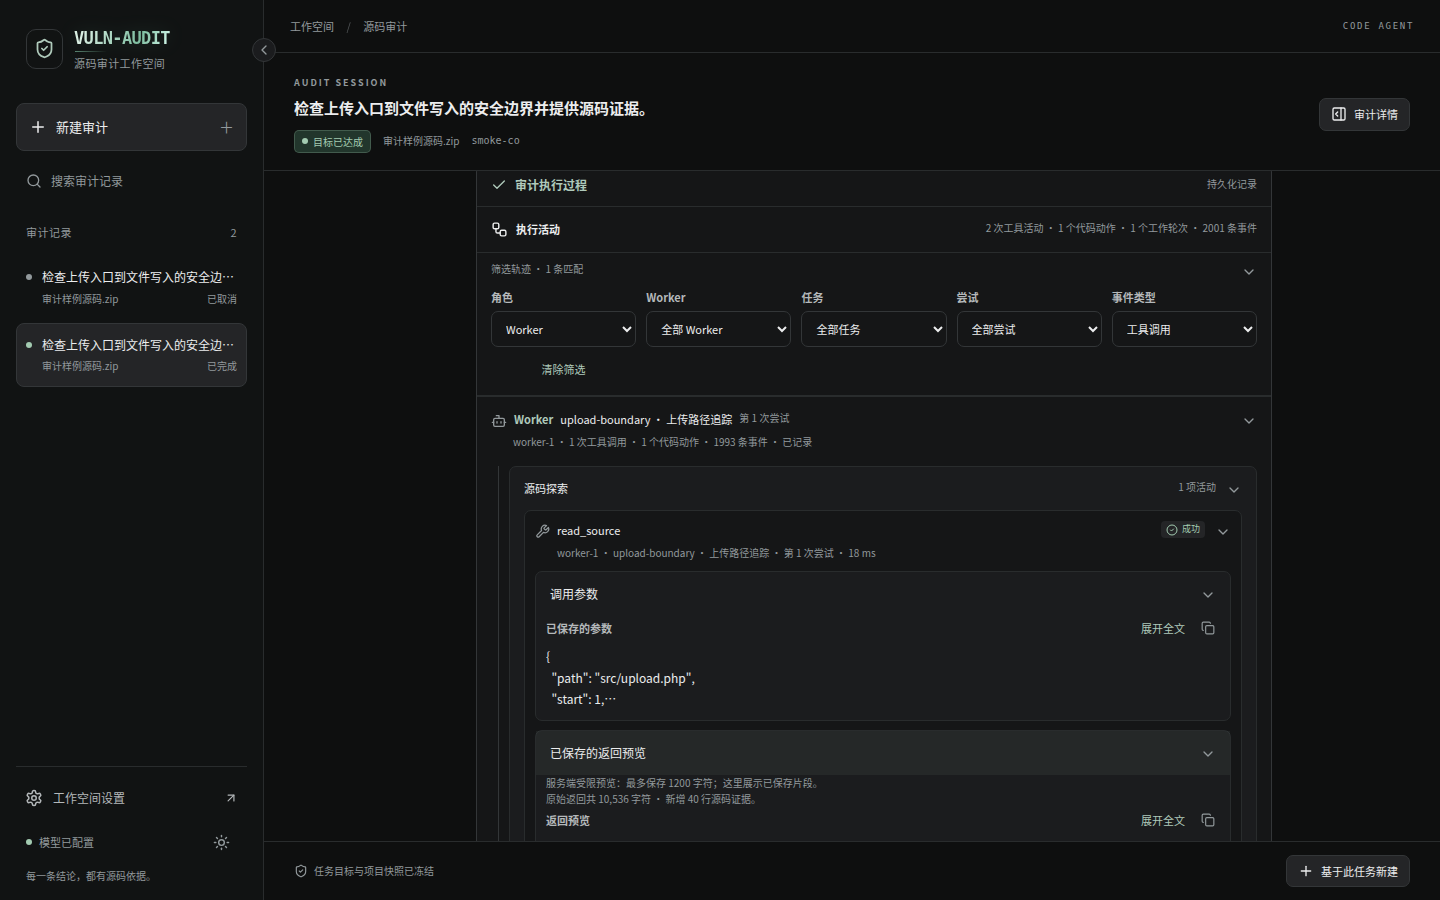
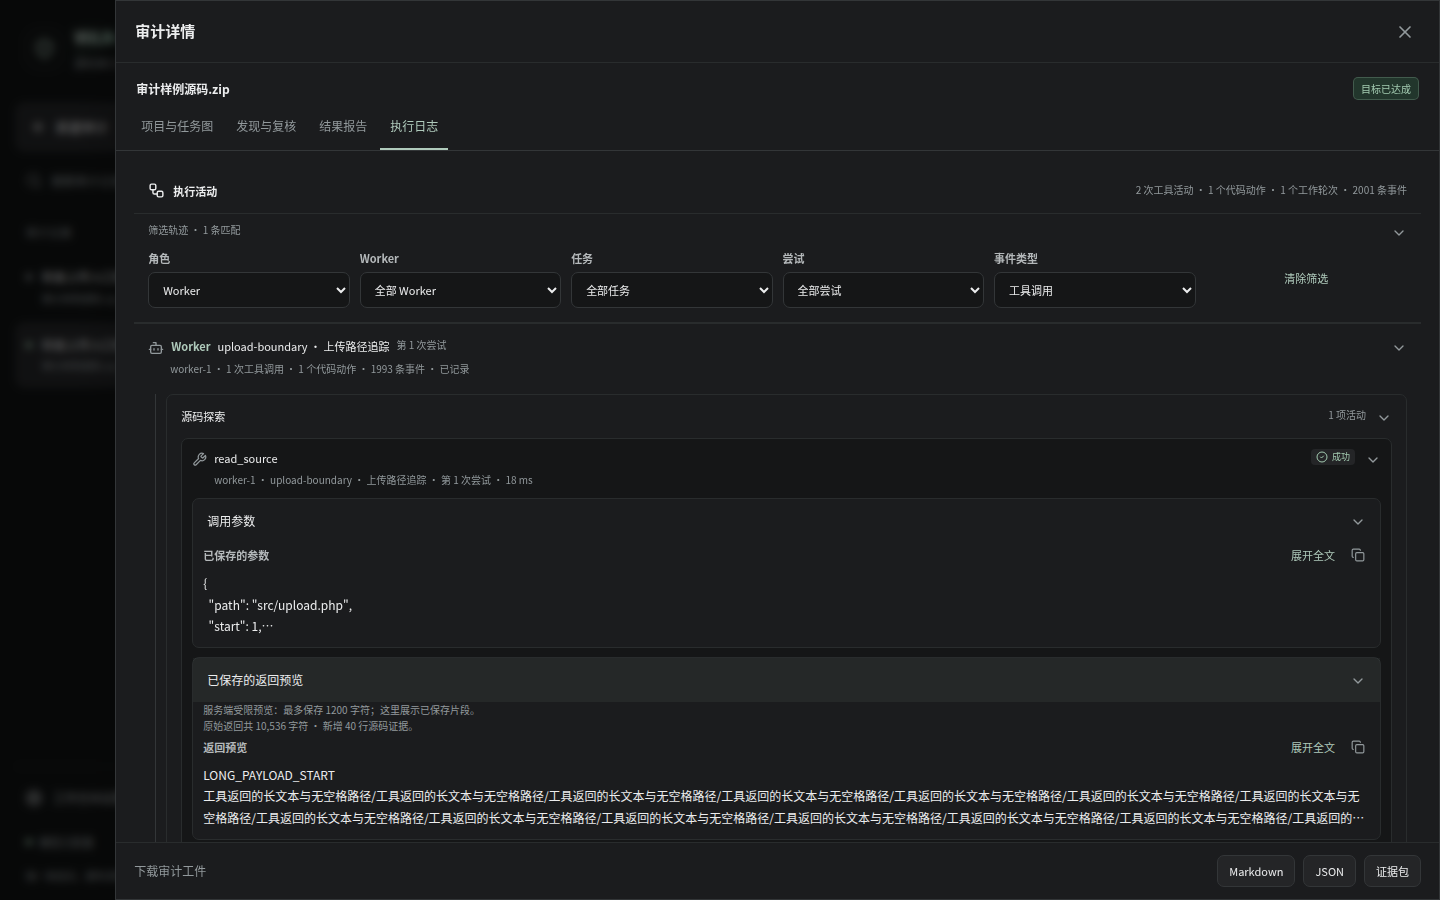
docs: refresh README showcase for conversational audits
Lead with the current chat activity view and replace the workspace, log, settings and report screenshots captured by the controlled browser checks. Include dark, light and mobile views, with collapsible supporting previews and updated workflow descriptions.

diff --git a/README.md b/README.md
@@ -1,25 +1,45 @@
-# VULN-AUDIT · 项目源码目标审计工作台
+# VULN-AUDIT · 漏洞白盒审计平台
 
-这是一个面向受控环境的源码白盒审计工具：**上传完整项目 ZIP → 定义审计目标与验收条件 → 主 Planner 借项目图与全量只读工具了解项目 → 建立项目级任务图 → 多 worker 审计 → 导出可复核结果**。
+这是一个以漏洞发现为目标的源码白盒审计平台：**上传完整项目 ZIP → 定义漏洞审计目标与验收条件 → 主 Planner 借项目图与全量只读工具了解项目 → 建立项目级任务图 → 多 worker 审计 → 导出漏洞候选与可复核证据**。
 
 上传的项目整包就是审计范围，不分语言、没有勾选步骤。PHP 用 tree-sitter 建语法索引，其它语言的文本文件按纯文本行索引并可读可搜、可作证据；二进制文件只登记不可读。第三方依赖与生成目录同样进入快照，是否值得读由 Planner 按目标判断，而不是由上传者在看不到代码时预先决定。
 
-本工具只做**源码审计**：仓库里不附带任何靶场、示例应用或被测源码包，审计目标由使用者自行提供 ZIP，POC 也要在使用者自备的授权环境中验证（见「[POC 与人工验证](#poc-与人工验证)」）。主流程不依赖预设 Prompt，也不限定固定漏洞类别。目标可以是漏洞路径、鉴权规则、敏感配置、危险依赖、路由覆盖、数据流或任意能由源码证据验证的事实。每次运行都会冻结源码快照、目标、预算和项目图；主 Planner 根据项目图、每回合的**本轮态势**（前沿任务、全部已结算方向与已有结论、覆盖统计、已固定调查）与 worker 反馈动态维护跨文件任务图，而不是把每个文件或切片直接派给 agent。Planner 回合、侦察简报、覆盖统计、固定调查、任务依赖、模型代码动作、工具调用、源码引用、worker 尝试和审计依据摘要都会持久化，刷新页面或重启服务后仍可回放。运行可以在回合边界**暂停**并原样**继续**：暂停保留前沿与回合号，不放弃任何已完成的工作。
+本工具只做**源码审计**：仓库里不附带任何靶场、示例应用或被测源码包，审计目标由使用者自行提供 ZIP，POC 也要在使用者自备的授权环境中验证（见「[POC 与人工验证](#poc-与人工验证)」）。主流程不依赖预设 Prompt，也不限定固定漏洞类别。审计围绕可利用的数据流、鉴权绕过、敏感配置缺陷和危险依赖等漏洞方向展开。源码行为、防护有效和不构成漏洞的结论单独保存为**排查记录**，不计为漏洞，也不能用于达成漏洞发现目标。每次运行都会冻结源码快照、目标、预算和项目图；主 Planner 根据项目图、每回合的**本轮态势**（前沿任务、全部已结算方向与已有结论、覆盖统计、已固定调查）与 worker 反馈动态维护跨文件任务图，而不是把每个文件或切片直接派给 agent。Planner 回合、侦察简报、覆盖统计、固定调查、任务依赖、模型代码动作、工具调用、源码引用、worker 尝试和审计依据摘要都会持久化，刷新页面或重启服务后仍可回放。运行可以在回合边界**暂停**并原样**继续**：暂停保留前沿与回合号，不放弃任何已完成的工作。
 
 模型的内部思维链不会被保存或展示。界面中的“审计依据摘要”是模型产出的、受源码行号约束的结论说明，结合工具轨迹与证据引用供人工复核。
 
 ## 界面预览
 
-以下截图使用模拟 API 数据，展示当前前端的交互与布局，不代表真实项目的审计结论。
+聊天主区连续展示公开审计进展与轻量工具行。当前步骤直接可见，已完成的历史操作可收拢；点击工具行，在原位查看参数、已保存的返回片段与源码。新增活动不会打断正在阅读的历史内容。
 
-在聊天输入区添加项目 ZIP，填写审计任务与验收目标；左侧可搜索和恢复历史审计。
+以下截图直接来自当前版本页面，使用受控模拟 API 与事件，不代表真实项目的审计结论。
 
-![VULN-AUDIT 深色聊天工作台：历史任务侧栏、任务与验收目标输入区](docs/screenshots/workspace-dark.png)
+![VULN-AUDIT 深色审计会话：公开进展、源码读取工具行与模型等待状态](docs/screenshots/conversation-process-dark.png)
 
 <details>
-<summary>执行轨迹：筛选工具链并展开调用详情</summary>
+<summary>浅色主题与移动端：同一审计会话的自适应展示</summary>
 
-按角色、任务与事件类型筛选执行记录，展开查看调用参数和返回预览；长内容可收起，并标明服务端保存的预览范围。
+深浅主题可切换并记住选择。窄屏收起侧栏，正文、工具状态和详情入口自适应排列。
+
+![浅色运行过程：相同任务与工具活动的浅色展示](docs/screenshots/conversation-process-light.png)
+
+<img src="docs/screenshots/conversation-process-mobile.png" alt="移动端运行过程：审计摘要与可展开的源码工具行" width="390" />
+
+</details>
+
+<details>
+<summary>新建审计：上传源码、填写目标与验收条件</summary>
+
+在同一输入卡内添加项目 ZIP 或复用已有快照，填写审计任务与验收目标；高级执行设置按需展开，左侧可搜索和恢复历史审计。
+
+![VULN-AUDIT 新建审计：历史任务侧栏、项目附件入口、任务与验收目标输入区](docs/screenshots/workspace-dark.png)
+
+</details>
+
+<details>
+<summary>执行日志：筛选工具链并展开调用详情</summary>
+
+“审计详情 → 执行日志”提供完整事件筛选、模型代码动作与关联标识，便于排查调用异常。长参数与服务端受限返回预览默认折叠，需要时再展开。
 
 ![工具链执行记录：筛选控件、工具调用参数和服务端受限返回预览](docs/screenshots/execution-trace-dark.png)
 
@@ -116,16 +136,20 @@ docker compose up --build
 3. 在同一输入卡内填写“审计任务”和“验收目标”（各 8–2000 字符）。例如：
    - “追踪上传入口到文件写入操作，确认是否存在未经路径规范化的可达写入路径。”
    - “列出所有无需认证即可访问的管理路由，并给出路由定义与中间件证据。”
-   - “确认会话 cookie 的 `Secure`、`HttpOnly` 和 `SameSite` 配置来源。”
-4. 在“高级执行设置”调整每个动态任务的最大尝试、全局 worker 尝试上限、Planner 回合上限、并发 worker 数，以及是否要求 POC。预算默认采用服务端的每回合设置，源码事实、配置或架构目标默认不要求 POC。
+   - “查找可导致会话泄露、劫持或跨站请求风险的会话与 Cookie 配置缺陷。”
+4. 在“高级执行设置”调整每个动态任务的最大尝试、全局 worker 尝试上限、Planner 回合上限、并发 worker 数，以及是否要求 POC。预算默认采用服务端的每回合设置，默认不强制 POC；漏洞候选仍需明确利用前提、安全影响、风险等级与源码证据。
 5. 点击发送箭头或使用 `Ctrl / ⌘ + Enter` 开始审计。主 Planner 首轮获得紧凑的项目结构概览（模块、静态 include 图、高置信入口、引导文件与未解析关系统计）；它的工具是**全量只读**的——可以自己读源码行、检索文本、看目录树与符号大纲，也可以调用内置侦察子 agent 做一次结构侦察，拿到布局、入口候选、数据存储、安全边界与首批阅读目标。**这些读记录都只是导航线索，不是证据**：证据永远只来自 worker 实际读过的源码行。此后每回合它还会拿到宿主预取的**本轮态势**（`ready`/`running` 的前沿任务、全部已结算方向与已有结论、覆盖统计、已固定调查），据此派发尚未被读过的相关区域，而不是重复派发或过早收束；前沿非空时允许一轮派出 0 个任务。同一个调查话题只会真的执行一次，结果固定在库里，之后直接复用。高置信入口与未解析静态根分开记录；后者不会被当成路由或作为 worker 的默认起点。worker 通过原子租约领取已就绪任务，并从多个源码窗口开始审计；其结果会成为下一轮 Planner 的输入。依赖任务会把已持久化的结论摘要交接给后续 worker；worker 还可检索其他 worker 的受限工具轨迹作为线索，但仍必须自行读取源码才能引用为证据。固定 SQL/XSS/命令执行启发式不会用于目标任务。
-6. 聊天流内按阶段查看 Planner、worker、侦察、代码动作和工具链；参数、保存的代码与日志、返回预览可展开和复制。通过“审计详情”查看项目与任务图、覆盖统计与固定调查、发现与复核、完整报告，下载 Markdown、JSON 和证据包。源码按需展开后加载。运行中可暂停并原样继续，也可取消。
+6. 在会话正文查看公开审计进展、工具操作和结果，点击工具行原位查看参数、已保存的返回片段和源码。通过“审计详情”查看项目与任务图、覆盖统计与固定调查、漏洞候选与复核、独立的排查记录和完整报告；模型代码动作、完整事件筛选和关联标识位于“执行日志”。长内容可展开和复制，源码按需加载，支持下载 Markdown、JSON 和证据包。运行中可暂停并原样继续，也可取消。
 
 每次审计对应一段会话，侧栏可搜索历史记录；“基于此任务新建”复用快照、目标和预算并创建独立运行。默认深色主题，可在侧栏底部切换浅色并保存偏好。品牌标题采用本地 CSS 字效，无远程字体依赖；布局与交互参考 AnythingLLM，许可见 [THIRD_PARTY_NOTICES.md](THIRD_PARTY_NOTICES.md)。
 
 一个动态任务只能报告 `achieved`、`continue`、`no_evidence` 或 `blocked`。单个 worker 的“未发现”不会结束整个审计。只有 Planner 已穷尽已知证据方向、所有动态任务已结算、且不存在上下文或执行受阻项时，宿主才会接受“不可达”；共享尝试或 Planner 回合耗尽一律保留为“未决”。Planner 可以更正自己先前的结论：把一条已结算任务重新打开重跑（旧尝试记录全部保留，新结论以新版本写入），或撤回/标为重复一条尚未被人工裁决的结论；**人工已确认或排除的结论不可被改写**，只会记为“存疑”。撤回不等于删除——行、证据、历史版本与复核记录都留在报告里，单独成区。
 
 ## 审计结果与执行详情
+
+“漏洞候选”只包含明确标为 `vulnerability` 且风险等级为 `low`、`medium`、`high` 或 `critical` 的结果；旧版 SQL 注入、反射型 XSS、命令注入记录仍可读取。不能单凭严重性、POC 是否存在或“证据通过”判断漏洞成立。`informational`、`source_observation`、`data_flow`、`security_boundary` 等源码事实保存在独立的“排查记录（非漏洞）”中；真实低危漏洞仍属于漏洞候选。
+
+历史数据不会被删除或改写：安全观察的原文、引用、版本和人工记录继续保留，旧任务的达成状态沿用当时判定，但不表示其排查记录是漏洞。API 的 `findings` 返回漏洞候选，`source_observations` 返回排查记录；JSON 与证据包保留可追溯数据。没有漏洞候选也不等于项目安全，仍需结合审计覆盖、缺失上下文和未决任务判断。
 
 每项目标任务保存：
 
@@ -137,10 +161,10 @@ docker compose up --build
 - 每个阶段的每次模型代码动作：被执行的代码、它 `print` 出来的日志、是否以终局结束、解释器错误与当时的用量（代码是动作，不是隐藏推理，所以照工具调用一样入库存档；代码块之外的散文不保存）；
 - 每次只读工具调用的参数、状态、受限预览与关联调用 ID；
 - 模型生成的审计依据摘要、缺失上下文和下一步建议；
-- 经过源码边界与已读范围校验的发现、可选 POC，以及 POC 验证或源码人工复核记录；
+- 经过源码边界与已读范围校验的漏洞候选、可选 POC、人工复核记录，以及独立的排查记录；
 - 每条结论的三个独立状态：引用是否核实（`validation_state`）、人工是否复现（`verdict`）、本次运行是否仍主张它（`disposition`），以及它的版本号、历史版本与派生来源。
 
-工具与结果先落 SQLite，再经 SSE 推送。因此实时页面只是视图，数据库事件才是审计记录的来源。执行轨迹展示工具调用和模型给出的源码依据摘要，不展示或持久化提供商 thinking delta、完整隐藏推理或密钥。
+工具与结果先落 SQLite，再经 SSE 推送。因此实时页面只是视图，数据库事件才是审计记录的来源。会话正文展示模型主动提交的简短审计进展、只读工具操作和结果；进展可在工具调用前显示，工具返回会更新原来的操作行。阅读历史时不会强制滚动，新活动通过按钮提示。工具参数和源码按需展开，完整事件日志保留在详情中。进展与依据摘要都不是模型的隐藏思维链，不展示或持久化提供商 thinking delta、完整隐藏推理或密钥。
 
 ## POC 与人工验证
 
@@ -179,7 +203,7 @@ scripts/ui_smoke.py      http://127.0.0.1:5173 <run-id>
 uv run --with playwright python scripts/ui_smoke.py http://127.0.0.1:5173 --mock --screenshots .run/screenshots
 ```
 
-已有 Chromium 可通过 `CHROME_BIN` 指定路径；不加 `--mock` 时只读检查真实服务，并阻止写入 API。截图覆盖深浅主题、工具轨迹与移动布局。
+已有 Chromium 可通过 `CHROME_BIN` 指定路径；不加 `--mock` 时只读检查真实服务，并阻止写入 API。模拟检查覆盖工具调用前的进展、并行与重试关联、工具原位更新、历史折叠、分页恢复、滚动与焦点保持，并保存 1440、1024、768、390px 的深浅主题截图。专用实时场景使用可控的模拟 SSE 帧，全部请求均留在浏览器内的模拟 API 中。
 
 ## 设计边界
 
